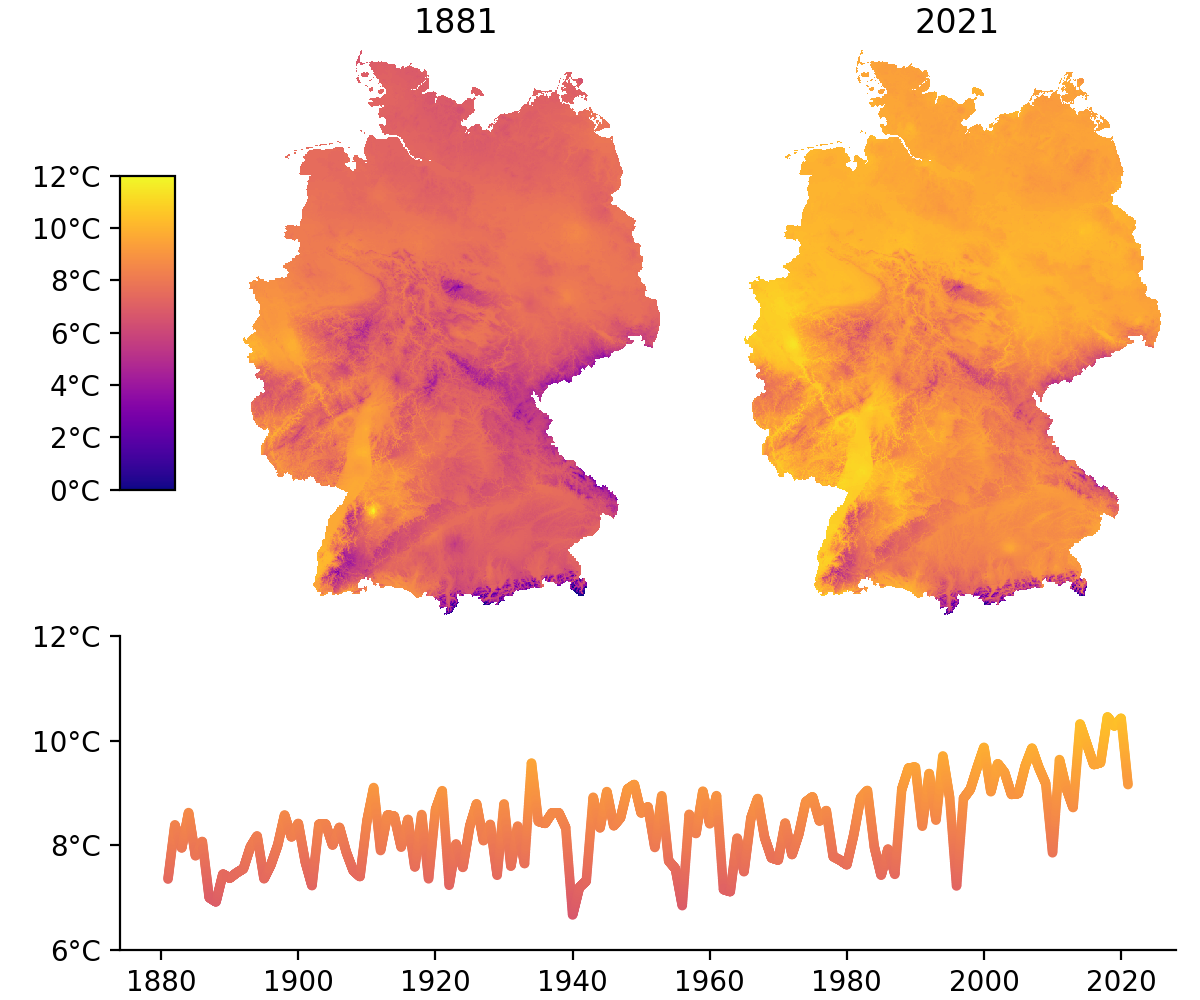
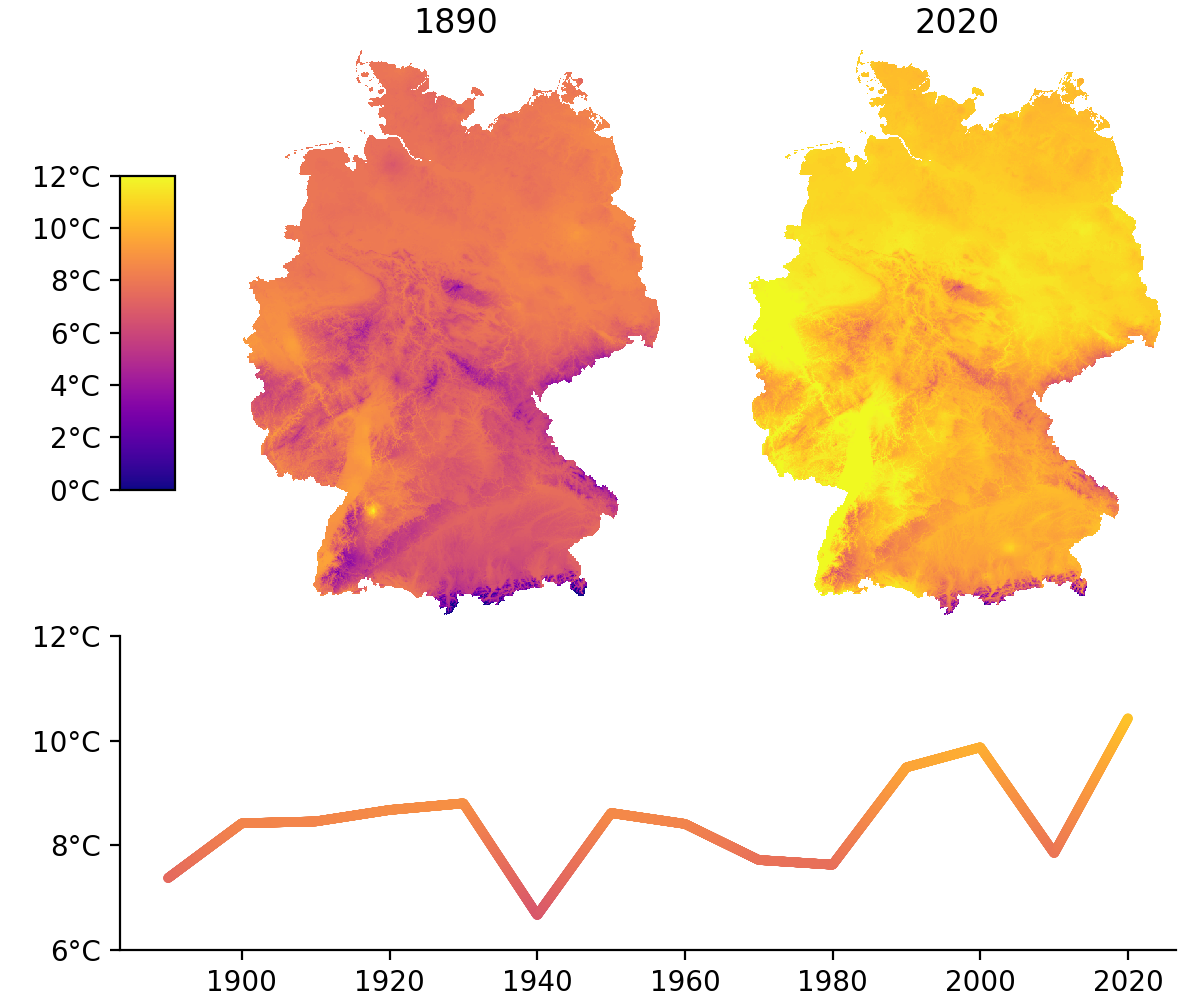
improved loader

diff --git a/climategermany.py b/climategermany.py
@@ -64,16 +64,18 @@ def load_grids(file_pathes):
         First dimension is the year, second the y-coordinates, and
         third the x-coordinates.
     """
-    years = []
-    datas = []
+    years = np.zeros(len(files))
+    datas = np.array([])
     xcoords = np.array([])
     ycoords = np.array([])
-    for file in files:
+    for k, file in enumerate(files):
         print(f'load {file} ...')
         year, xcoords, ycoords, data = load_grid(file)
-        years.append(year)
-        datas.append(data)
-    return np.array(years), xcoords, ycoords, np.array(datas)
+        if len(datas) == 0:
+            datas = np.empty((len(files), *data.shape))
+        years[k] = year
+        datas[k] = data
+    return years, xcoords, ycoords, datas
 
 
 def show_spines(ax, spines='lrtb'):
@@ -173,8 +175,8 @@ def show_spines(ax, spines='lrtb'):
 if __name__ == '__main__':
     # load data:
     file_path = 'annual/air_temperature_mean/'
-    #files = sorted(glob.glob(file_path + '*017.asc'))
-    files = sorted(glob.glob(file_path + '*.asc'))
+    files = sorted(glob.glob(file_path + '*017.asc'))
+    #files = sorted(glob.glob(file_path + '*.asc'))
     years, xcoords, ycoords, temps = load_grids(files)
 
     # statistics:
